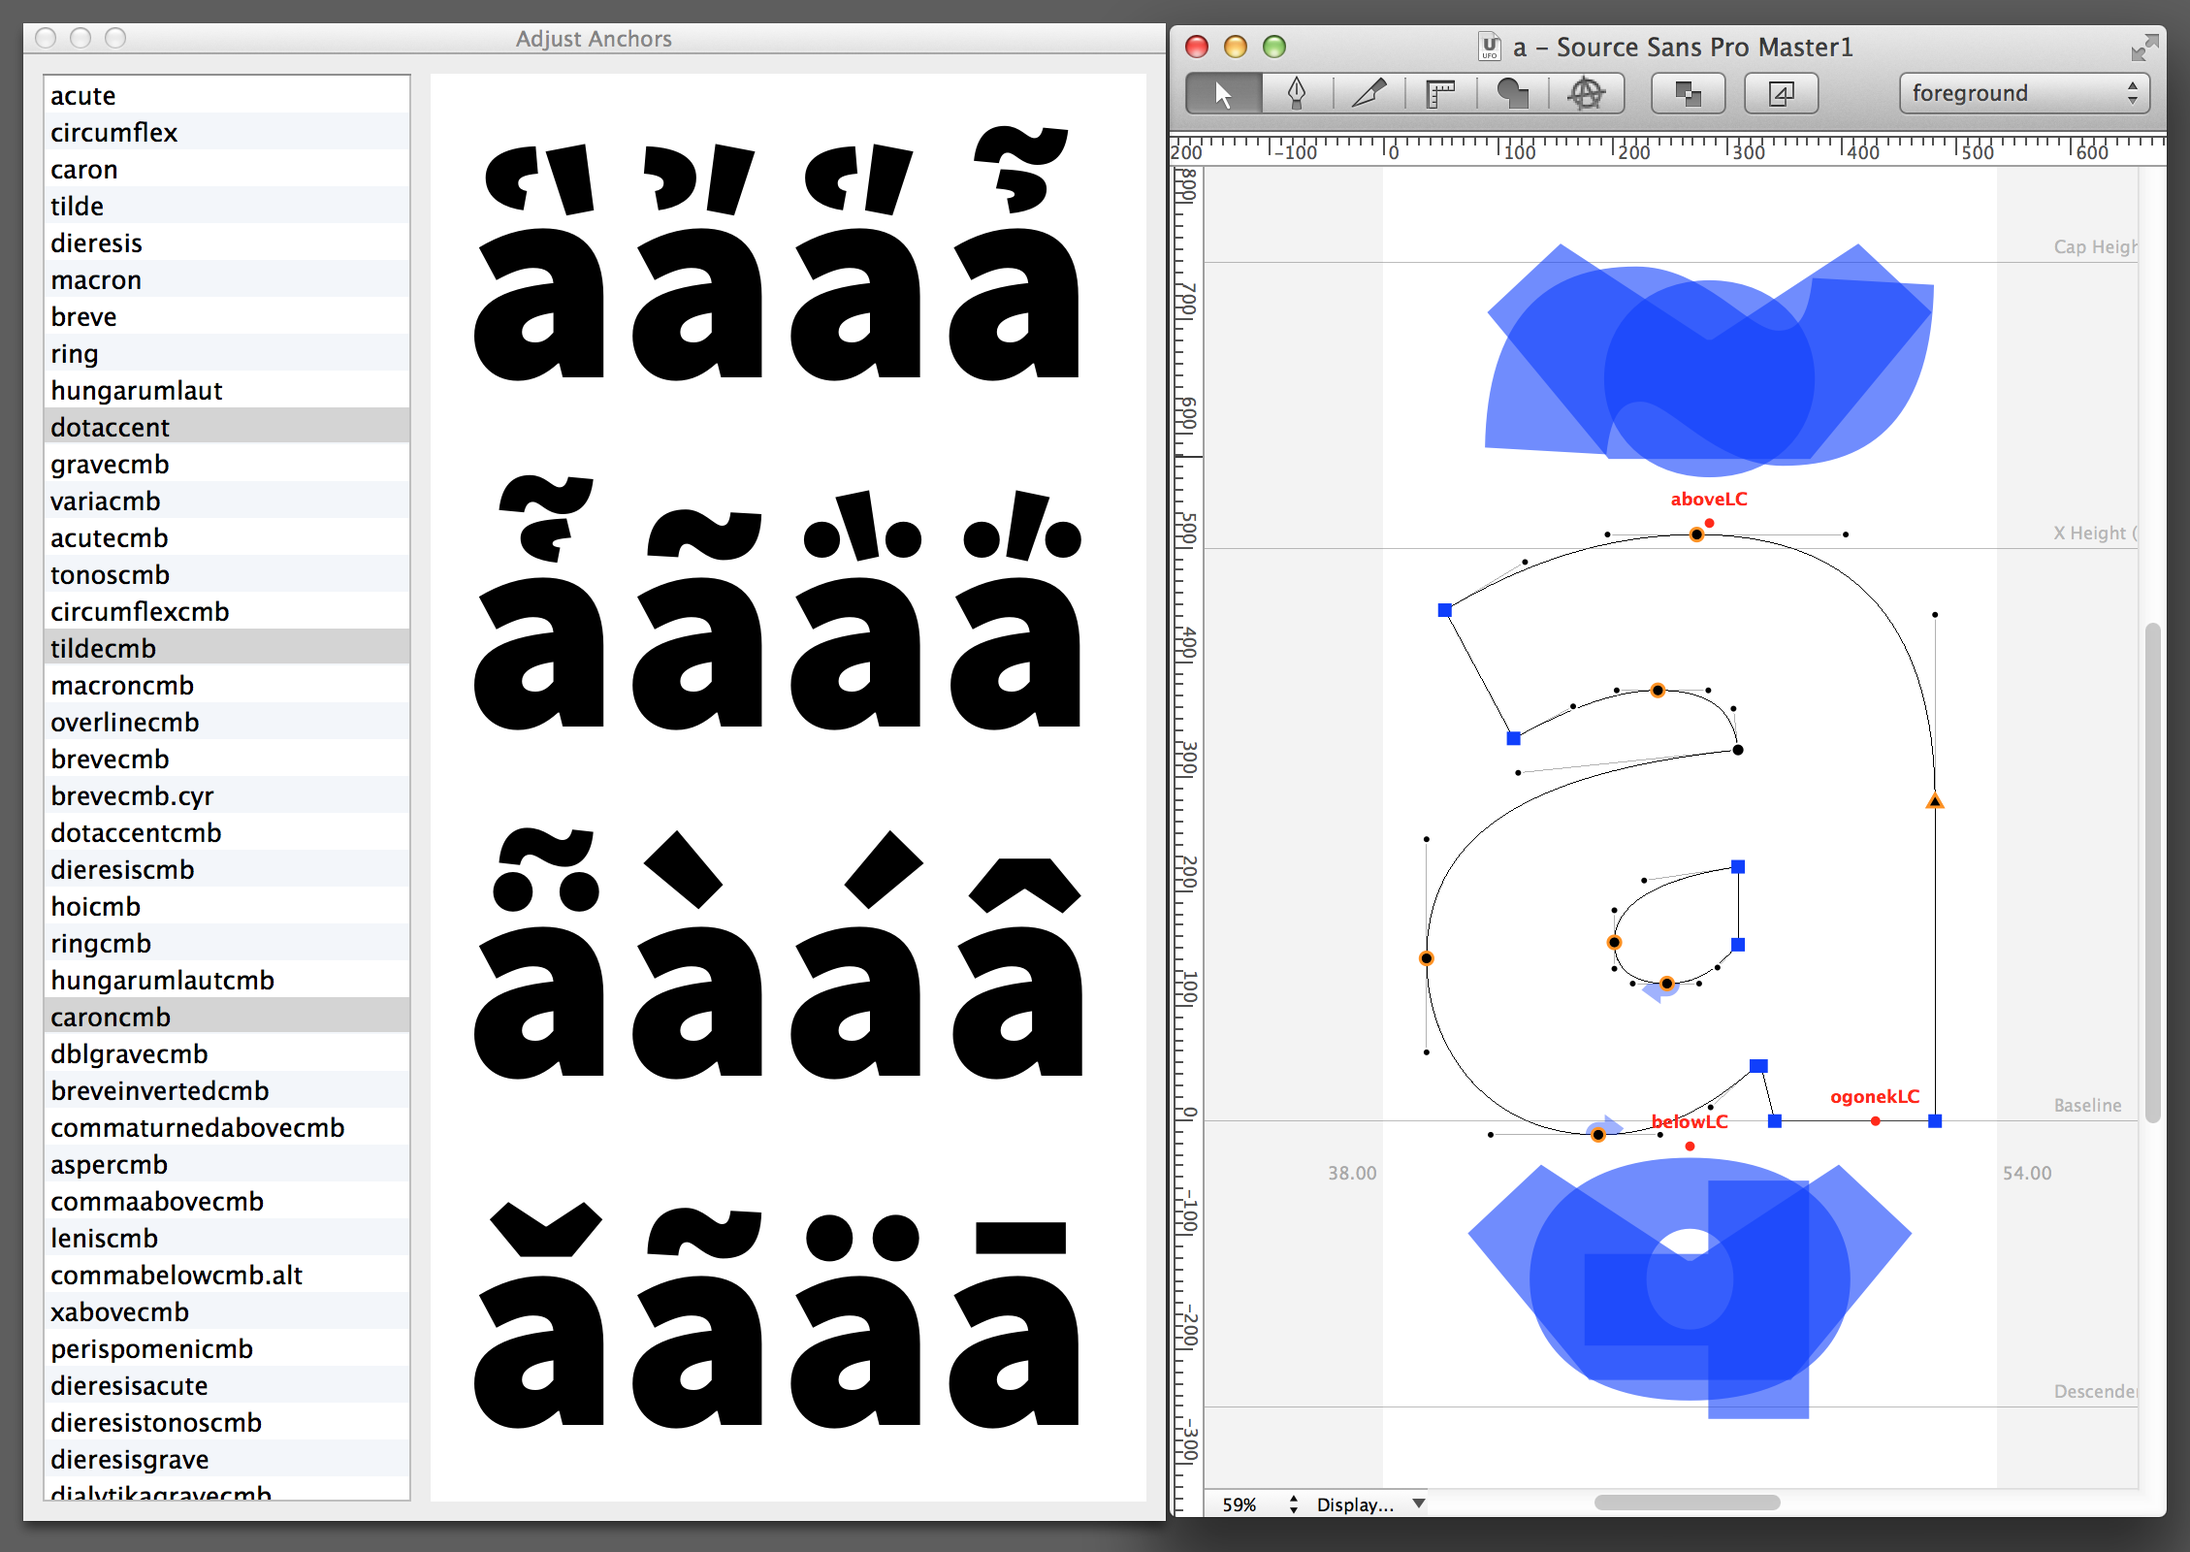
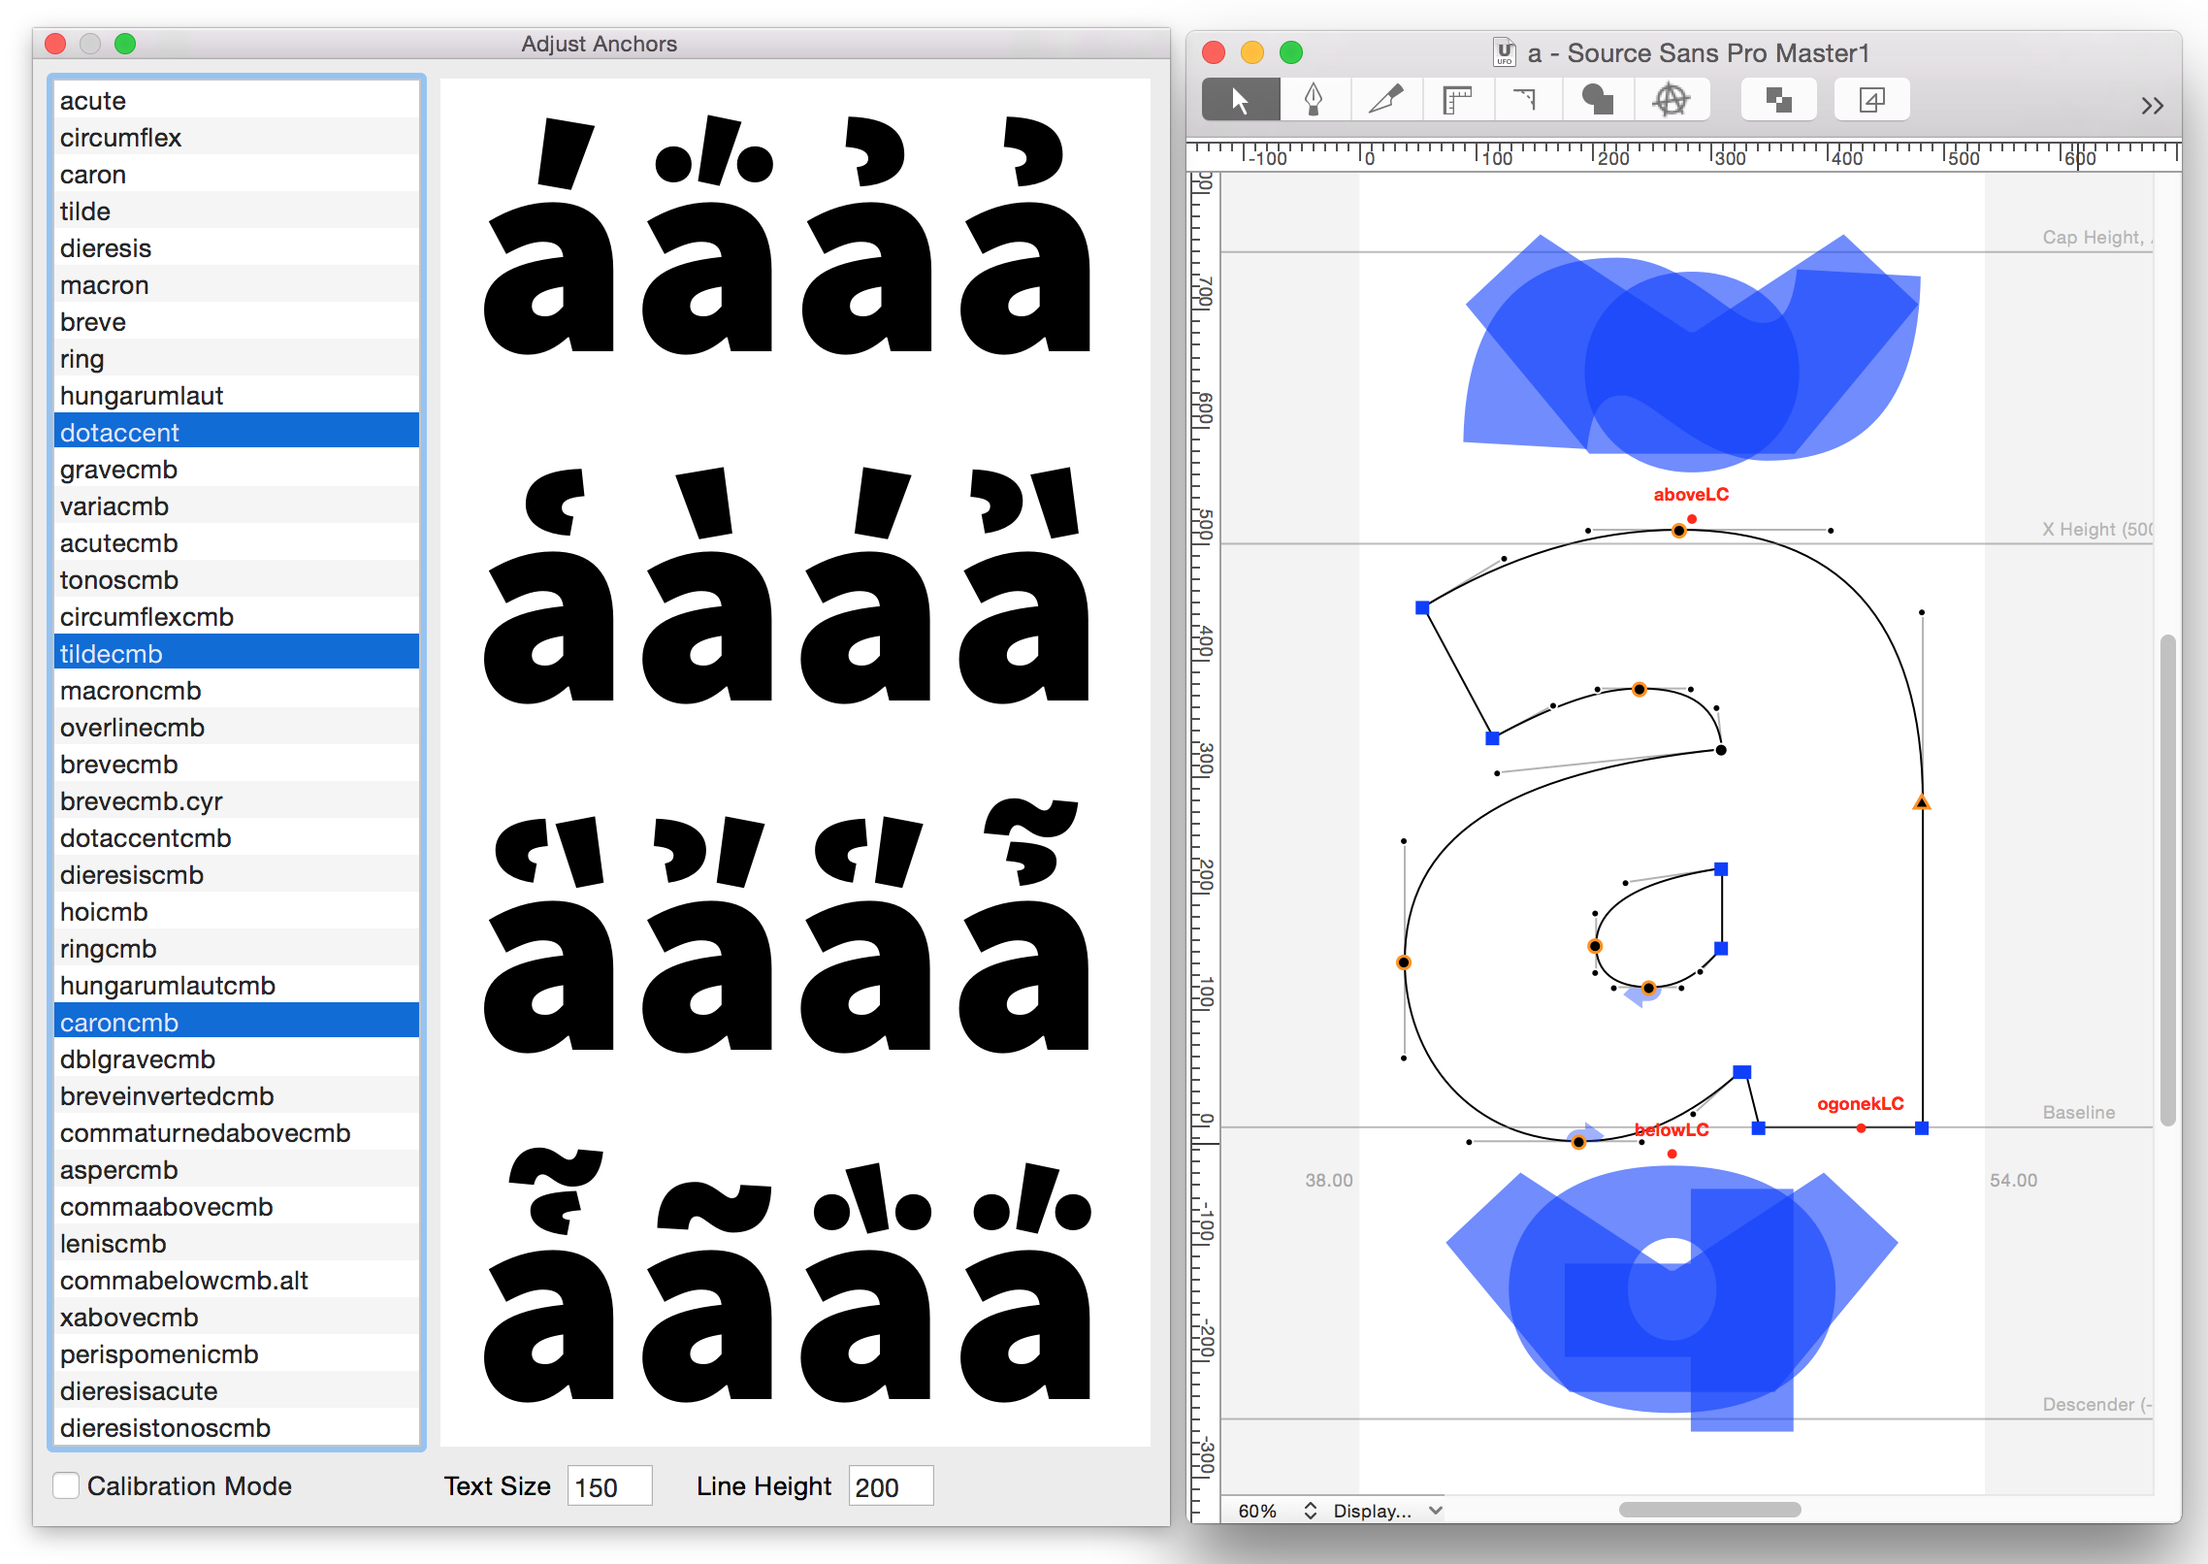
adds Calibration Mode

diff --git a/AdjustAnchors.roboFontExt/lib/AdjustAnchors.py b/AdjustAnchors.roboFontExt/lib/AdjustAnchors.py
@@ -20,16 +20,26 @@ OUT OF OR IN CONNECTION WITH THE SOFTWARE OR THE USE OR OTHER DEALINGS IN THE
 SOFTWARE.
 """
 
+from itertools import product
+from lib.tools.misc import RoboFontError
+from mojo.roboFont import CurrentFont, CurrentGlyph, RGlyph
 from mojo.drawingTools import newPath, moveTo, lineTo, curveTo, closePath, drawPath, translate, fill, strokeWidth
 from mojo.events import addObserver, removeObserver
 from mojo.extensions import getExtensionDefault, setExtensionDefault
 from mojo.UI import UpdateCurrentGlyphView, MultiLineView, OutputWindow
-from vanilla import FloatingWindow, List, TextBox, EditText
+from vanilla import FloatingWindow, List, TextBox, EditText, CheckBox, Group, HorizontalLine, ScrollView
 from defconAppKit.windows.baseWindow import BaseWindowController
 from fontTools.pens.basePen import BasePen
 from fontTools.pens.transformPen import TransformPen
 from fontTools.misc.transform import Identity
-from AppKit import NSNumber, NSNumberFormatter, NSBeep
+from AppKit import NSNumber, NSNumberFormatter, NSBeep, NSNoBorder, NSScrollElasticityNone, NSView
+try:
+	from AppKit import DefconAppKitTopAnchoredNSView
+except ImportError:
+	# as seen at https://github.com/typesupply/defconAppKit/blob/master/Lib/defconAppKit/controls/openTypeControlsView.py#L202-L205
+	class DefconAppKitTopAnchoredNSView(NSView):
+		def isFlipped(self):
+			return True
 
 extensionKey = "com.adobe.AdjustAnchors"
 extensionName = "Adjust Anchors"
@@ -45,6 +55,7 @@ class AdjustAnchors(BaseWindowController):
 	def __init__(self):
 		self.font = CurrentFont()
 		self.glyph = CurrentGlyph()
+		self.upm = self.font.info.unitsPerEm
 		self.glyphPreviewCacheDict = {} # key: glyph name -- value: list containing assembled glyphs
 		self.anchorsOnMarksDict = {} # key: anchor name -- value: list of mark glyph names
 		self.anchorsOnBasesDict = {} # key: anchor name -- value: list of base glyph names
@@ -87,23 +98,95 @@ class AdjustAnchors(BaseWindowController):
 		if not posSize:
 			posSize = (100, 100, 1200, 400)
 
+		self.calibrateMode = getExtensionDefault("%s.%s" % (extensionKey, "calibrateMode"))
+		if not self.calibrateMode:
+			self.calibrateMode = False
+
+		calibrateModeStrings = getExtensionDefault("%s.%s" % (extensionKey, "calibrateModeStrings"))
+		if not calibrateModeStrings:
+			calibrateModeStrings = {
+				'group1.baseInput': 'dotlessi o s',
+				'group1.markInput': 'dieresis circumflex macron breve caron',
+				'group2.baseInput': 'I O S',
+				'group2.markInput': 'dieresis.cap circumflex.cap macron.cap breve.cap caron.cap',
+				'group3.baseInput': 'I.sc O.sc S.sc',
+				'group3.markInput': 'dieresis circumflex macron breve caron',
+				'group4.baseInput': '',
+				'group4.markInput': '',
+			}
+
+		# -- Window --
 		self.w = FloatingWindow(posSize, extensionName, minSize=(500, 400))
-		self.w.fontList = List((10, 10, 190, -10), self.glyphNamesList, selectionCallback = self.listSelectionCallback)
+		self.w.fontList = List((10, 10, 190, -41), self.glyphNamesList, selectionCallback=self.listSelectionCallback)
+		self.w.fontList.show(not self.calibrateMode)
 		self.w.lineView = MultiLineView((210, 10, -10, -41),
 							pointSize = self.textSize,
 							lineHeight = self.lineHeight,
 							displayOptions={"Beam" : False, "displayMode" : "Multi Line"}
 							)
+
+		# -- Calibration Mode --
+		baseLabel = "Bases"
+		markLabel = "Marks"
+		width, height = 190, 140
+		self.cm = Group((0, 0, 0, 0))
+		# ---
+		self.cm.group1 = Group((0, height*0, width, height-10))
+		self.cm.group1.baseLabel = TextBox((0, 0, width, 20), baseLabel)
+		self.cm.group1.baseInput = EditText((0, 21, width, 22), calibrateModeStrings['group1.baseInput'], callback=self.updateCalibrateMode, continuous=False)
+		self.cm.group1.markLabel = TextBox((0, 50, width, 20), markLabel)
+		self.cm.group1.markInput = EditText((0, 71, width, 44), calibrateModeStrings['group1.markInput'], callback=self.updateCalibrateMode, continuous=False)
+		self.cm.group1.divider = HorizontalLine((0, -1, -0, 1))
+		# ---
+		self.cm.group2 = Group((0, height*1, width, height-10))
+		self.cm.group2.baseLabel = TextBox((0, 0, width, 20), baseLabel)
+		self.cm.group2.baseInput = EditText((0, 21, width, 22), calibrateModeStrings['group2.baseInput'], callback=self.updateCalibrateMode, continuous=False)
+		self.cm.group2.markLabel = TextBox((0, 50, width, 20), markLabel)
+		self.cm.group2.markInput = EditText((0, 71, width, 44), calibrateModeStrings['group2.markInput'], callback=self.updateCalibrateMode, continuous=False)
+		self.cm.group2.divider = HorizontalLine((0, -1, -0, 1))
+		# ---
+		self.cm.group3 = Group((0, height*2, width, height-10))
+		self.cm.group3.baseLabel = TextBox((0, 0, width, 20), baseLabel)
+		self.cm.group3.baseInput = EditText((0, 21, width, 22), calibrateModeStrings['group3.baseInput'], callback=self.updateCalibrateMode, continuous=False)
+		self.cm.group3.markLabel = TextBox((0, 50, width, 20), markLabel)
+		self.cm.group3.markInput = EditText((0, 71, width, 44), calibrateModeStrings['group3.markInput'], callback=self.updateCalibrateMode, continuous=False)
+		self.cm.group3.divider = HorizontalLine((0, -1, -0, 1))
+		# ---
+		self.cm.group4 = Group((0, height*3, width, height-10))
+		self.cm.group4.baseLabel = TextBox((0, 0, width, 20), baseLabel)
+		self.cm.group4.baseInput = EditText((0, 21, width, 22), calibrateModeStrings['group4.baseInput'], callback=self.updateCalibrateMode, continuous=False)
+		self.cm.group4.markLabel = TextBox((0, 50, width, 20), markLabel)
+		self.cm.group4.markInput = EditText((0, 71, width, 44), calibrateModeStrings['group4.markInput'], callback=self.updateCalibrateMode, continuous=False)
+		# ---
+		view = DefconAppKitTopAnchoredNSView.alloc().init()
+		view.addSubview_(self.cm.getNSView())
+		view.setFrame_(((0, 0), (width, height*4-25)))
+		self.cm.setPosSize((0, 0, width, height*4-25))
+		self.w.scrollView = ScrollView((10, 10, width, -41), view, drawsBackground=False, hasHorizontalScroller=False)
+		self.w.scrollView.getNSScrollView().setBorderType_(NSNoBorder)
+		self.w.scrollView.getNSScrollView().setVerticalScrollElasticity_(NSScrollElasticityNone)
+		self.w.scrollView.show(self.calibrateMode)
+
+		# -- Footer --
+		self.w.calibrateModeCheck = CheckBox((10, -32, 200, -10), "Calibration Mode", callback=self.calibrateModeCallback, value=self.calibrateMode)
 		self.w.textSizeLabel = TextBox((210, -30, 100, -10), "Text Size")
 		self.w.textSize = EditText((275, -32, 45, -10), self.textSize, callback=self.textSizeCallback, continuous=False, formatter=textSizeNumFormatter)
 		self.w.lineHeightLabel = TextBox((340, -30, 100, -10), "Line Height")
 		self.w.lineHeight = EditText((420, -32, 45, -10), self.lineHeight, callback=self.lineHeightCallback, continuous=False, formatter=lineHeightNumFormatter)
 
-		# trigger the initial contents of the window
+		# trigger the initial state and contents of the window
 		self.updateExtensionWindow()
 
 		self.w.bind("close", self.windowClose)
 		self.w.open()
+		self.w.makeKey()
+
+
+	def calibrateModeCallback(self, sender):
+		self.calibrateMode = not self.calibrateMode
+		self.w.fontList.show(not sender.get())
+		self.w.scrollView.show(self.calibrateMode)
+		self.updateExtensionWindow()
 
 
 	def textSizeCallback(self, sender):
@@ -135,10 +218,21 @@ class AdjustAnchors(BaseWindowController):
 		self.saveExtensionDefaults()
 
 
+	def getCalibrateModeStrings(self):
+		calibrateModeStringsDict = {}
+		for i in range(1,5):
+			group = getattr(self.cm, "group%d" % i)
+			calibrateModeStringsDict["group%d.baseInput" % i] = group.baseInput.get()
+			calibrateModeStringsDict["group%d.markInput" % i] = group.markInput.get()
+		return calibrateModeStringsDict
+
+
 	def saveExtensionDefaults(self):
 		setExtensionDefault("%s.%s" % (extensionKey, "posSize"), self.w.getPosSize())
 		setExtensionDefault("%s.%s" % (extensionKey, "textSize"), self.textSize)
 		setExtensionDefault("%s.%s" % (extensionKey, "lineHeight"), self.lineHeight)
+		setExtensionDefault("%s.%s" % (extensionKey, "calibrateMode"), self.calibrateMode)
+		setExtensionDefault("%s.%s" % (extensionKey, "calibrateModeStrings"), self.getCalibrateModeStrings())
 
 
 	def _previewFill(self, info):
@@ -211,13 +305,53 @@ class AdjustAnchors(BaseWindowController):
 		return glyph
 
 
+	def updateCalibrateMode(self, *sender):
+		glyphsList = []
+
+		# cycle thru the UI Groups and collect the strings
+		for i in range(1,5):
+			group = getattr(self.cm, "group%d" % i)
+			baseGlyphsNamesList = group.baseInput.get().split()
+			markGlyphsNamesList = group.markInput.get().split()
+
+			# iterate thru the base+mark combinations
+			for gBaseName, gMarkName in product(baseGlyphsNamesList, markGlyphsNamesList):
+				newGlyph = RGlyph()
+				newGlyph.setParent(self.font)
+				# skip invalid glyph names
+				try:
+					baseGlyph = self.font[gBaseName]
+					markGlyph = self.font[gMarkName]
+				except RoboFontError:
+					continue
+				# append base glyph
+				newGlyph = self.deepAppendGlyph(newGlyph, baseGlyph)
+				# append mark glyph
+				newGlyph = self.deepAppendGlyph(newGlyph, markGlyph, self.getAnchorOffsets(baseGlyph, markGlyph))
+				# set the advanced width
+				newGlyph.leftMargin = self.upm * .05 # 5% of the UPM
+				newGlyph.rightMargin = newGlyph.leftMargin
+				# append the assembled glyph to the list
+				glyphsList.append(newGlyph)
+
+			# add line break
+			newLine = self.w.lineView.createNewLineGlyph()
+			glyphsList.append(newLine)
+
+		# update the contents of the MultiLineView
+		self.w.lineView.set(glyphsList)
+
+
 	def updateExtensionWindow(self):
+		if self.calibrateMode:
+			self.updateCalibrateMode()
+			return
+
 		if CurrentGlyph() is not None: # NOTE: CurrentGlyph() will return zero (its length), so "is not None" is necessary
 			self.glyph = CurrentGlyph()
 			self.glyphNamesList = self.makeGlyphNamesList(self.glyph)
 			self.updateListView()
 			currentGlyphName = self.glyph.name
-			upm = self.font.info.unitsPerEm
 
 			# base glyph + accent combinations preview
 			# first check if there's a cached glyph
@@ -242,7 +376,7 @@ class AdjustAnchors(BaseWindowController):
 
 						# set the advanced width
 						if self.glyph.width < 10: # combining marks or other glyphs with a small advanced width
-							newGlyph.leftMargin = upm * .05 # 5% of the UPM
+							newGlyph.leftMargin = self.upm * .05 # 5% of the UPM
 							newGlyph.rightMargin = newGlyph.leftMargin
 						else:
 							newGlyph.width = self.glyph.width
@@ -258,16 +392,16 @@ class AdjustAnchors(BaseWindowController):
 
 						# set the advanced width
 						if self.glyph.width < 10: # combining marks or other glyphs with a small advanced width
-							newGlyph.leftMargin = upm * .05
+							newGlyph.leftMargin = self.upm * .05
 							newGlyph.rightMargin = newGlyph.leftMargin
 						else:
 							newGlyph.width = baseGlyph.width
 
 					# pad the new glyph if it has too much overhang
-					if newGlyph.leftMargin < upm * .15:
-						newGlyph.leftMargin = upm * .05
-					if newGlyph.rightMargin < upm * .15:
-						newGlyph.rightMargin = upm * .05
+					if newGlyph.leftMargin < self.upm * .15:
+						newGlyph.leftMargin = self.upm * .05
+					if newGlyph.rightMargin < self.upm * .15:
+						newGlyph.rightMargin = self.upm * .05
 
 					# one last check for making sure the new glyph can be displayed
 					if not newGlyph.components:
@@ -279,6 +413,8 @@ class AdjustAnchors(BaseWindowController):
 
 				# add to the cache
 				self.glyphPreviewCacheDict[currentGlyphName] = glyphsList
+		else:
+			self.w.lineView.set([])
 
 
 	def listSelectionCallback(self, sender):
@@ -380,9 +516,12 @@ class AdjustAnchors(BaseWindowController):
 						break
 				# pick the (base glyph) anchor to draw on
 				for anchor in glyphToDraw.anchors:
-					if anchor.name == '_'+ anchorName:
-						baseAnchor = anchor
-						break
+					try:
+						if anchor.name == '_'+ anchorName:
+							baseAnchor = anchor
+							break
+					except UnboundLocalError:
+						continue
 			# glyphToDraw is not a mark
 			else:
 				# pick the (mark glyph) anchor to draw on
@@ -393,9 +532,12 @@ class AdjustAnchors(BaseWindowController):
 						break
 				# pick the (base glyph) anchor to draw on
 				for anchor in glyphToDraw.anchors:
-					if anchor.name == anchorName:
-						baseAnchor = anchor
-						break
+					try:
+						if anchor.name == anchorName:
+							baseAnchor = anchor
+							break
+					except UnboundLocalError:
+						continue
 
 			try:
 				offsetX = markAnchor.x - baseAnchor.x
@@ -406,18 +548,22 @@ class AdjustAnchors(BaseWindowController):
 
 		# the current glyph is a base
 		else:
-			anchorName = self.marksDict[glyphToDraw.name]
+			try:
+				anchorName = self.marksDict[glyphToDraw.name]
+			except KeyError:
+				anchorName = None
 
-			# pick the (base glyph) anchor to draw on
-			for anchor in canvasGlyph.anchors:
-				if anchor.name == anchorName:
-					baseAnchor = anchor
-					break
-			# pick the (mark glyph) anchor to draw on
-			for anchor in glyphToDraw.anchors:
-				if anchor.name == '_'+ anchorName:
-					markAnchor = anchor
-					break
+			if anchorName:
+				# pick the (base glyph) anchor to draw on
+				for anchor in canvasGlyph.anchors:
+					if anchor.name == anchorName:
+						baseAnchor = anchor
+						break
+				# pick the (mark glyph) anchor to draw on
+				for anchor in glyphToDraw.anchors:
+					if anchor.name == '_'+ anchorName:
+						markAnchor = anchor
+						break
 
 			try:
 				offsetX = baseAnchor.x - markAnchor.x

diff --git a/README.md b/README.md
@@ -12,3 +12,4 @@ This extension lets you preview all of the base + mark glyph combinations, and g
 It requires the font to have the anchors already in place and properly setup.
 
 ![screenshot](AdjustAnchors.png "screenshot")
+![screenshot2](AdjustAnchors2.png "screenshot2")
